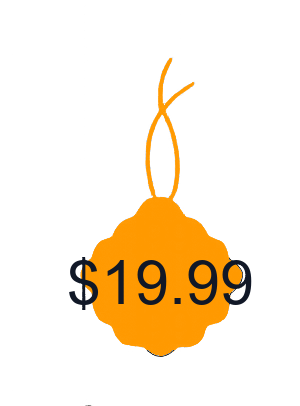
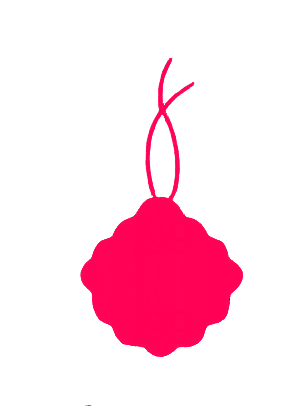
auto: publish re-rendered graphic for B0D8P8CSYP to GitHub Pages

Changed region(s): [[0.21, 0.1478, 0.84, 0.8867]]

diff --git a/index.html b/index.html
@@ -691,7 +691,7 @@
                 <div class="card-img-container">
                     <div class="card-price-tag">$20.56</div>
                     <div class="card-rating">★ 4.8</div>
-                    <img id="hp-img-B0D8P8CSYP" src="./focus_product_B0D8P8CSYP_hook.jpg?v=1785393541" alt="Cute Bird Dimmable Touch Night Lamp">
+                    <img id="hp-img-B0D8P8CSYP" src="./focus_product_B0D8P8CSYP_hook.jpg?v=1785401830" alt="Cute Bird Dimmable Touch Night Lamp">
                 </div>
                 <div class="card-content">
                     <h2>Cute Bird Dimmable Touch Night Lamp</h2>

diff --git a/bridge_B0D8P8CSYP.html b/bridge_B0D8P8CSYP.html
@@ -317,7 +317,7 @@
 
         <!-- Hero Image -->
         <div class="img-container">
-            <img id="mainImage" class="hero-img" src="./focus_product_B0D8P8CSYP_hook.jpg?v=1785401611" alt="Cute Bird Dimmable Touch Night Lamp">
+            <img id="mainImage" class="hero-img" src="./focus_product_B0D8P8CSYP_hook.jpg?v=1785401830" alt="Cute Bird Dimmable Touch Night Lamp">
         </div>
 
         <!-- Image View Switcher -->
